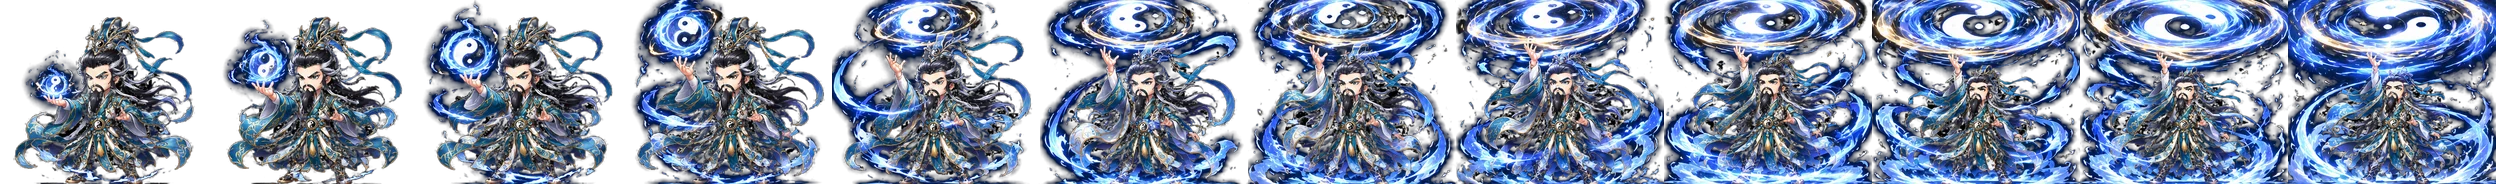
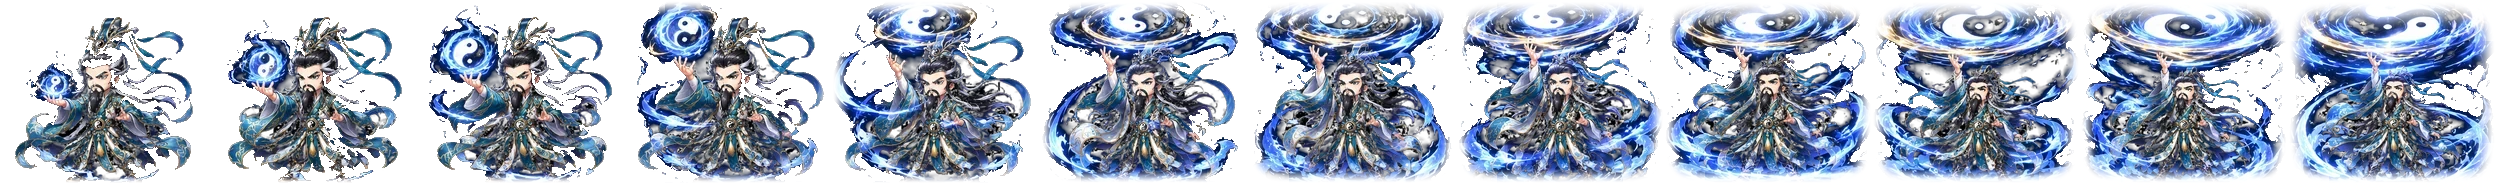
cập nhật bản mới

diff --git a/js/heroes/hero-seq.js b/js/heroes/hero-seq.js
@@ -12,7 +12,6 @@ const SEQ = {
   dtCast:   { src: 'assets/images/seq/dong-ta-ult.webp',             cw: 227, ch: 201, n: 12 },   // Đông Tà tung tuyệt kỹ (nhảy lên, xoáy vàng)
   bcIdle:   { src: 'assets/images/seq/bac-cai-idle.webp',            cw: 227, ch: 201, n: 12 },   // Bắc Cái đứng yên
   ndIdle:   { src: 'assets/images/seq/nam-de-idle.webp',             cw: 227, ch: 201, n: 12 },   // Nam Đế đứng tụ cầu Thái Cực
-  ndCast:   { src: 'assets/images/seq/nam-de-ult.webp',              cw: 227, ch: 201, n: 12 },   // Nam Đế tuyệt kỹ: Phật quang + chữ Vạn (đặt giữa đội địch)
   ttpIdle:  { src: 'assets/images/seq/truong-tam-phong-idle.webp',    cw: 227, ch: 201, n: 12 },   // Trương Tam Phong đứng, 4 cầu Thái Cực quay quanh
   ttpCast:  { src: 'assets/images/seq/truong-tam-phong-ult.webp',     cw: 227, ch: 201, n: 12 },   // Trương Tam Phong tụ cầu, nhảy lên, chọi xuống
   acIdle:   { src: 'assets/images/seq/au-co-idle.webp',               cw: 227, ch: 201, n: 12 }    // Âu Cơ đứng trên đài sen cùng hạc
@@ -26,10 +25,11 @@ Object.keys(SEQ).forEach(k => { const im = new Image(); im.src = SEQ[k].src; });
 const seqT = ms => (typeof battleFast !== 'undefined' && battleFast) ? 0 : ms * (typeof ultTimeScale === 'number' ? ultTimeScale : 1);
 
 // HTML dáng đứng (thay ảnh thân tĩnh) — gọi từ applyRole trong battle/engine.js
-function seqIdleHTML(id, hb) {
+// side: 'hero' = đội ta (đứng bên trái, nhìn sang phải) • khác = đội địch (bên phải) → lật ngang để 2 đội nhìn vào nhau
+function seqIdleHTML(id, hb, side) {
   const c = SEQ_IDLE[id]; if (!c) return '';
   const s = SEQ[c.sheet], h = c.h, w = Math.round(h * s.cw / s.ch), lift = h - ((hb && hb.bodyH) || 76);
-  return '<div class="hero-seq" style="width:' + w + 'px;height:' + h + 'px;margin:' + (-lift) + 'px 0 0 ' + (-w / 2) + 'px;background-image:url(' + s.src + ');background-size:' + (w * s.n) + 'px ' + h + 'px;--end:' + (-w * s.n) + 'px;--ms:' + c.ms + 'ms"></div>';
+  return '<div class="hero-seq" style="width:' + w + 'px;height:' + h + 'px;margin:' + (-lift) + 'px 0 0 ' + (-w / 2) + 'px;' + (side && side !== 'hero' ? 'transform:scaleX(-1);' : '') + 'background-image:url(' + s.src + ');background-size:' + (w * s.n) + 'px ' + h + 'px;--end:' + (-w * s.n) + 'px;--ms:' + c.ms + 'ms"></div>';
 }
 // Phần tử hiển thị chuỗi khung, rộng w px. d.show(i) = dừng ở khung i; d.loop(ms) = lặp liên tục.
 function seqEl(s, w) {
@@ -42,7 +42,7 @@ function seqEl(s, w) {
 }
 // Phủ chuỗi khung lên tướng u (ẩn ảnh thân/dáng đứng trong lúc diễn, căn đáy giữa). end() trả lại như cũ.
 function seqOverlay(u, s, w) {
-  const d = seqEl(s, w); d.classList.add('seq-over'); u.el.appendChild(d);
+  const d = seqEl(s, w); d.classList.add('seq-over'); if (u.side !== 'hero') d.style.transform = 'translateX(-50%) scaleX(-1)'; u.el.appendChild(d);   // đội địch lật ngang để nhìn về phía đội ta
   const hid = u.el.querySelectorAll('.hero-body, .hero-img, .bf-emo, .bf-sprite .hero-seq'); hid.forEach(b => { b.style.visibility = 'hidden'; });
   return { el: d, show: i => d.show(i), end() { d.remove(); hid.forEach(b => { b.style.visibility = ''; }); } };
 }

diff --git a/js/heroes/skills/ngu-tuyet.js b/js/heroes/skills/ngu-tuyet.js
@@ -171,21 +171,19 @@
     // ---------- NAM ĐẾ: chưởng ấn chữ Vạn (Phật Như Lai) rơi từ trời xuống ----------
     async function namDeUlt(u, tok) {
       const g = nt(u), { H, made } = g, es0 = g.es(); if (!es0.length) return;
-      const b = g.box0(es0), timers = [];
+      const b = g.box0(es0);
       try {
         u.el.animate([{ filter: 'drop-shadow(0 0 0 #fde047)' }, { filter: 'drop-shadow(0 0 18px #fde047)' }, { filter: 'drop-shadow(0 0 0 #fde047)' }], { duration: 700 });
-        // Chuỗi 12 khung (SEQ.ndCast) đặt giữa đội địch: khung 0-6 Phật quang xoay, 7-11 chữ Vạn rực sáng giáng xuống → chạm ở khung 7 (~0,9 s)
-        const SW = Math.round(Math.max(200, Math.min(g.W * 0.56, H * 0.9))), SH = Math.round(SW * SEQ.ndCast.ch / SEQ.ndCast.cw);
-        const palm = g.mk('bf-seq-fx', '', b.cx, b.cy); palm.style.width = SW + 'px'; palm.style.height = SH + 'px';
-        const sc = seqEl(SEQ.ndCast, SW); palm.appendChild(sc);
-        for (let i = 0; i < 12; i++) timers.push(setTimeout(() => { if (tok === battleToken) sc.show(i); }, seqT(i * 125)));
-        palm.animate([{ opacity: 0, transform: 'translate(-50%,-50%) scale(.6)' }, { opacity: 1, transform: 'translate(-50%,-50%) scale(1)' }], { duration: 400, easing: 'ease-out', fill: 'forwards' });
+        const halo = g.mk('bf-wan-halo', '', b.cx, b.cy); halo.animate([{ opacity: 0, transform: 'translate(-50%,-50%) scale(.3)' }, { opacity: 1, transform: 'translate(-50%,-50%) scale(1)' }], { duration: 700, fill: 'forwards' });
+        const palm = g.mk('bf-wan', '<span>卍</span>', b.cx, b.cy);
+        palm.animate([{ transform: `translate(-50%,calc(-50% - ${H}px)) scale(.5)`, opacity: 0 }, { opacity: 1, offset: .2 },
+                      { transform: 'translate(-50%,-50%) scale(1.5)', opacity: 1, offset: .75 }, { transform: 'translate(-50%,-50%) scale(1.25)', opacity: 1 }], { duration: 1050, easing: 'ease-in', fill: 'forwards' });
         await sleep(900); if (tok !== battleToken) return;
         g.ring(b.cx, b.cy, '#fde047'); g.shake(); setTimeout(() => g.ring(b.cx, b.cy, '#f59e0b'), 160);
         g.es().forEach(e => { MOD_STATS.forEach(k => pctMod(e, k, -ND_ALL_DOWN, ND_TURNS, 'debuff', 'nd:' + k)); floatText(e, '卍 ẤN PHONG'); sayLater(e, '⬇ TẤT CẢ -' + Math.round(ND_ALL_DOWN * 100) + '%', 280); });
         refreshPanel(); await sleep(1100); if (tok !== battleToken) return;
-        palm.animate([{ opacity: 1 }, { opacity: 0 }], { duration: 420, fill: 'forwards' }); await sleep(440);
-      } finally { timers.forEach(clearTimeout); made.forEach(d => d.remove()); }
+        palm.animate([{ opacity: 1 }, { opacity: 0 }], { duration: 420, fill: 'forwards' }); halo.animate([{ opacity: 1 }, { opacity: 0 }], { duration: 420, fill: 'forwards' }); await sleep(440);
+      } finally { made.forEach(d => d.remove()); }
     }
 
     // ---------- VƯƠNG TRÙNG DƯƠNG: tung Thái Cực (chuỗi 12 khung), lốc xoáy âm dương mở ra bên ĐỊCH, đội ta tăng 300% mọi thuộc tính ----------

diff --git a/js/battle/engine.js b/js/battle/engine.js
@@ -216,7 +216,7 @@
       const r = HERO_ROLE[u.id]; if (!r || !u.el) return;
       u.el.dataset.role = r; u.el.style.setProperty('--rc', ROLE_COLOR[r]);
       const sp = u.el.querySelector('.bf-sprite'), hb = heroById(u.id);
-      const sq = (typeof seqIdleHTML === 'function') ? seqIdleHTML(u.id, hb) : '';   // dáng đứng bằng chuỗi khung (hero-seq.js)
+      const sq = (typeof seqIdleHTML === 'function') ? seqIdleHTML(u.id, hb, u.side) : '';   // dáng đứng bằng chuỗi khung (hero-seq.js)
       if (sp && sq) { if (!sp.querySelector('.hero-seq')) sp.innerHTML = sq; return; }
       if (sp && hb && hb.body && !sp.querySelector('.hero-body')) { sp.innerHTML = '<img class="hero-body" style="height:' + (hb.bodyH || 76) + 'px" src="' + hb.body + '">'; return; }
       if (sp && hb && hb.img && !hb.body && !sp.querySelector('.hero-body')) { sp.innerHTML = '<img class="hero-body hero-portrait" style="height:80px" src="' + hb.img + '">'; return; }

diff --git a/README.md b/README.md
@@ -165,5 +165,5 @@ Mỗi sheet là 1 hàng × 12 khung nền trong suốt (`assets/images/seq/`), k
 Cùng quy cách (1 hàng × 12 khung, 227×201 px) trong `assets/images/seq/`, khai báo trong `SEQ` / `SEQ_IDLE` (`hero-seq.js`):
 - `dong-ta-idle.webp` (`dtIdle`) và `bac-cai-idle.webp` (`bcIdle`): dáng đứng trong trận, tự lặp.
 - `dong-ta-ult.webp` (`dtCast`): tuyệt kỹ Đông Tà (`dongTaUlt`): khung 0-3 nhảy lên, 4-10 xoáy vàng theo 4 nhịp sóng âm, 11 đáp đất. Bắc Cái vẫn dùng `bac-cai-ult.webp` cũ cho tuyệt kỹ.
-- Nam Đế (16): `nam-de-idle.webp` (`ndIdle`, dáng đứng) và `nam-de-ult.webp` (`ndCast`, tuyệt kỹ `namDeUlt`: khung 0-6 Phật quang xoay, 7-11 chữ Vạn rực sáng; đặt giữa đội địch, chạm ở ~0,9 s).
+- Nam Đế (16): `nam-de-idle.webp` (`ndIdle`, dáng đứng). Tuyệt kỹ giữ hiệu ứng cũ (chữ Vạn + vòng sáng).
 - Trương Tam Phong (4): `truong-tam-phong-idle.webp` (`ttpIdle`) + `truong-tam-phong-ult.webp` (`ttpCast`, dùng trong `taichiUlt`: khung 0-4 tụ cầu, 5-7 nhảy lên, 8-11 chọi xuống; quả cầu bay chỉ hiện lúc chọi). Âu Cơ (5): `au-co-idle.webp` (`acIdle`, dáng đứng).
